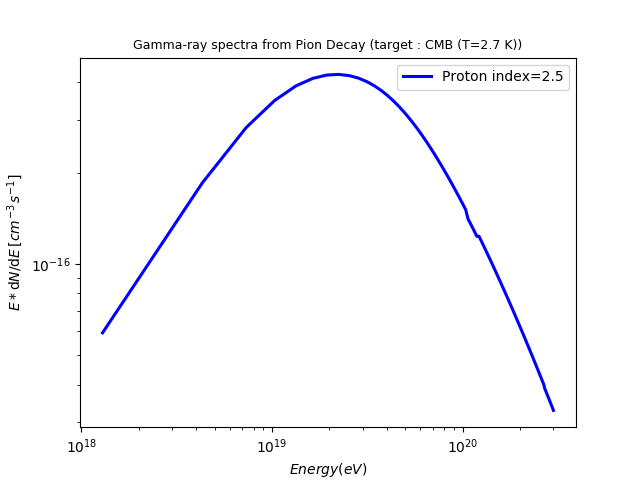
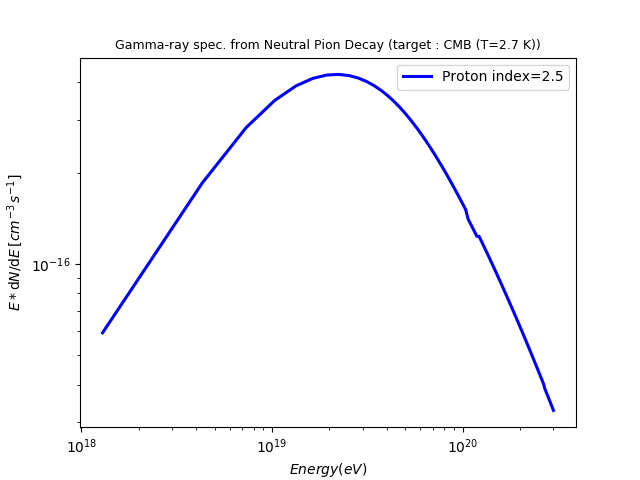
Redefining some var names and fixing typos

Changed region(s): [[0.1875, 0.0625, 0.8438, 0.125]]

diff --git a/trial_pgamma_model/pgamma_piondecay.py b/trial_pgamma_model/pgamma_piondecay.py
@@ -8,6 +8,7 @@ import numpy as np
 import numba as nb
 import matplotlib.pyplot as plt
 import timeit
+import cProfile
 
 __all__ = ['PionDecay_pgamma', ]
 
@@ -23,14 +24,14 @@ class PionDecay_pgamma(object):
 
     """
 
-    def __init__(self, pd, **kwargs):
-        """ Uses the delta function approcimation for Ep < Etrans (default 0.1 TeV)
+    def __init__(self, particle_dist, **kwargs):
+        """ Particle distribution of protons is the only parameter
         """
-        self.pd = pd
+        self.particle_dist = particle_dist
         self.__dict__.update(**kwargs)
 
     def _particle_dist(self, E):
-        return self.pd(E * u.eV).to('1/eV').value
+        return self.particle_dist(E * u.eV).to('1/eV').value
 
     def _softphoton_dist(self, e):
         """ Blackbody spectrum : No. of photons / energy / cm3
@@ -49,7 +50,7 @@ class PionDecay_pgamma(object):
 
         return (norm * (num / denom)).value
 
-    def interp_tab1(self, eta):
+    def lookup_tab1(self, eta):
         """
         Interpolate the values of s, delta, B for the
         parametrics form of _phi_gamma.
@@ -116,7 +117,7 @@ class PionDecay_pgamma(object):
         x_p = x_3 * (x_1 + x_2)
         x_n = x_3 * (x_1 - x_2)
 
-        s, delta, B = self.interp_tab1(eta / 0.313)
+        s, delta, B = self.lookup_tab1(eta / 0.313)
         power = 2.5 + 0.4 * np.log(eta / 0.313)
 
         if x > x_n and x < x_p:
@@ -131,7 +132,7 @@ class PionDecay_pgamma(object):
         elif x > x_p:
             return 0
 
-    mpc2 = (m_p * c ** 2).to('eV')
+    _mpc2 = (m_p * c ** 2).to('eV')
     _E = 3.0e20 * u.eV
     #Egamma = (0.5 * _E).value
 
@@ -146,11 +147,11 @@ class PionDecay_pgamma(object):
         """
         return ((1 / Egamma) *
                 self._particle_dist(Egamma / x) *
-                self._softphoton_dist((eta * self.mpc2**2 * x) / (4 * Egamma)) *
+                self._softphoton_dist((eta * self._mpc2**2 * x) / (4 * Egamma)) *
                 self._phi_gamma(eta, x))
 
     @nb.jit
-    def _calc_specpg_hiE(self, Egamma):
+    def _calc_spec_pgamma(self, Egamma):
         """
         Calculation of differential photon spectra
 
@@ -168,7 +169,7 @@ class PionDecay_pgamma(object):
         x_range = [0, 1]
         eta_range = [0.3443, 31.3]
         #opts = {'epsabs':0}
-        spec_hi = self.mpc2 * nquad(self._H_integrand, [x_range, eta_range],
+        spec_hi = self._mpc2 * nquad(self._H_integrand, [x_range, eta_range],
                                     args=[Egamma],)[0]
 
         return spec_hi.value
@@ -183,7 +184,7 @@ class PionDecay_pgamma(object):
         self.specpg = np.zeros(len(outspecene))
 
         for i, gamma in enumerate(outspecene):
-            self.specpg[i] = self._calc_specpg_hiE(gamma)
+            self.specpg[i] = self._calc_spec_pgamma(gamma)
             print("Executing {} out of 100 steps...\n dNdE={}".format(
                 i + 1, self.specpg[i]))
 
@@ -194,7 +195,7 @@ if __name__ == '__main__':
 
     start = timeit.default_timer()
     pdist1 = PL(4.3e8 / u.eV, 1e3 * u.GeV, 2.5)
-    pg1 = PionDecay_pgamma(pdist1, B=10 * u.G)
+    pg1 = PionDecay_pgamma(pdist1)
 
     gamma_arr = np.linspace(0.43e-2, 1, 100) * pg1._E
 
@@ -207,7 +208,7 @@ if __name__ == '__main__':
     plt.loglog(gamma_arr, gamma_arr * sed, label='Proton index=2.5',
                lw=2.2, ls='-', color='blue')
     plt.title(
-        'Gamma-ray spectra from Pion Decay (target : CMB (T=2.7 K))', fontsize=9)
+        'Gamma-ray spec. from Neutral Pion Decay (target : CMB (T=2.7 K))', fontsize=9)
     plt.xlabel('$Energy (eV)$')
     plt.ylabel(r'$E*{\rm d}N/{\rm d}E\,[cm^{-3}\,s^{-1}]$')
     plt.legend(loc='best')
